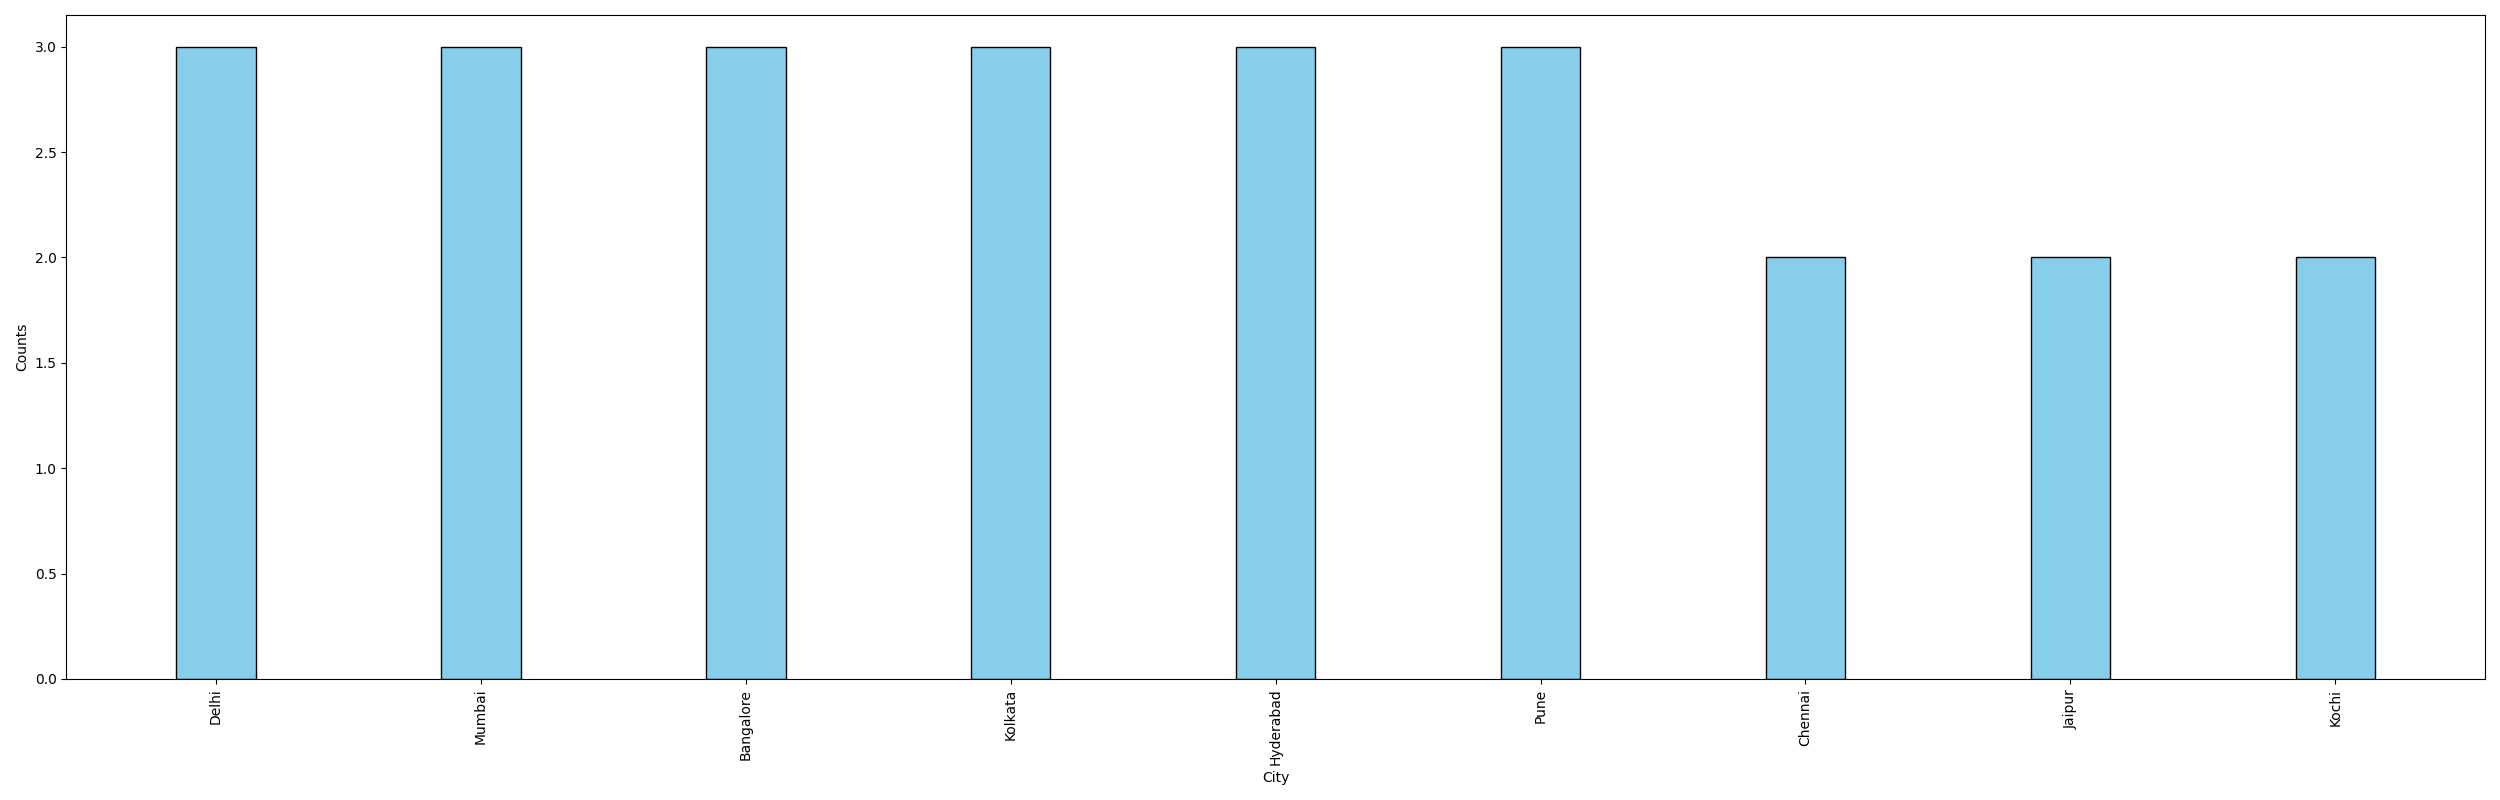
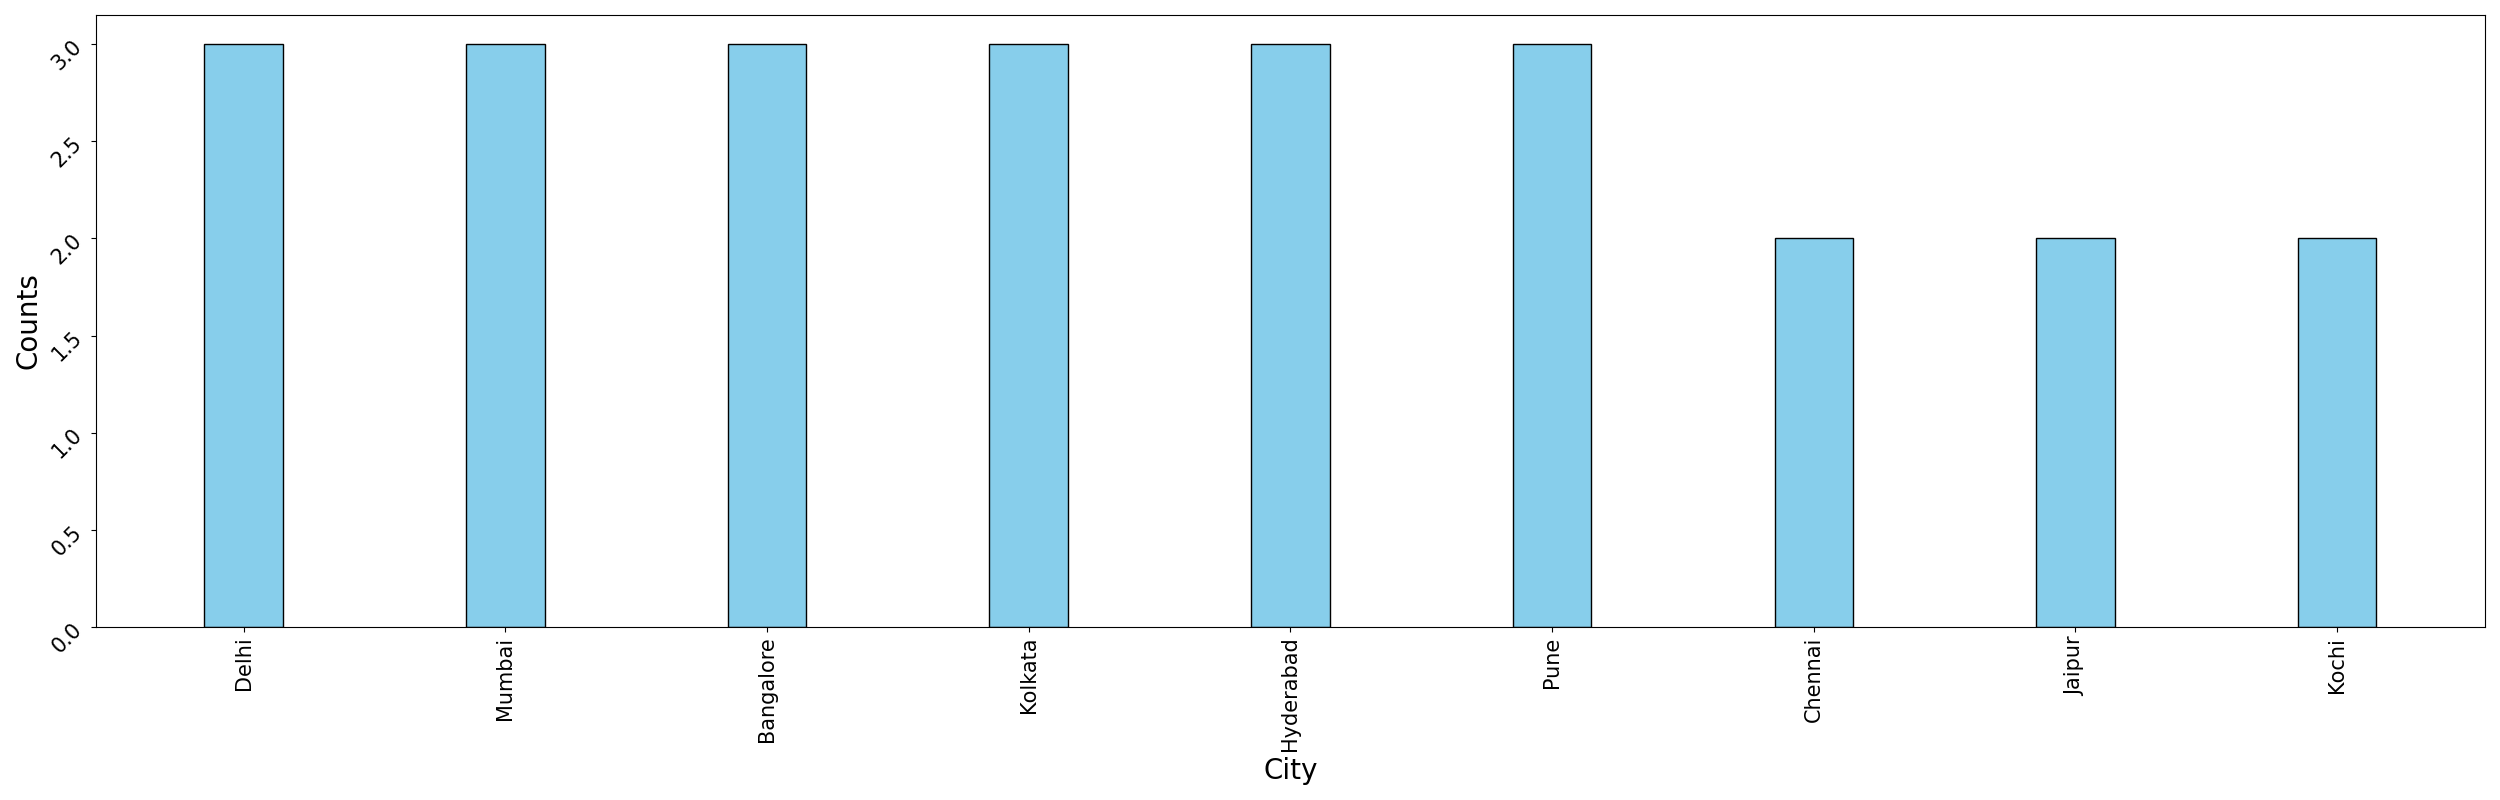
visual and bars using matplotlib and seaborn

diff --git a/visualization library/bar.py b/visualization library/bar.py
@@ -1,6 +1,6 @@
 import pandas as pd
 import matplotlib.pyplot as plt
-import numpy as np
+import seaborn as sb
 
 #load the source data
 source=pd.read_excel("/workspaces/Python-Course/numpy/project/indian_employee_data.xlsx")
@@ -24,15 +24,22 @@ print("'X' axis values ",x_value,"\n","'Y' axis values \n",y_value)
 #we will now 1st increase size of the figure
 plt.figure(figsize=(25,8))#giving height , width
 #rotate the label
-plt.xticks(rotation=90,fontsize=10)
+plt.xticks(rotation=90,fontsize=15)
+plt.yticks(rotation=45,ha="right",fontsize=15)
+
 plt.bar(x_value,y_value,width=0.3,color='skyblue', edgecolor='black')#by default width is 1 
 #but the ploting is not perfect the labels are overlapping so below things we can do
 # allign the labels vertically,decrease the size of font ,increase the size of visual
-plt.xlabel("City")
-plt.ylabel("Counts")
+plt.xlabel("City",fontsize=20)
+plt.ylabel("Counts",fontsize=20)
 plt.tight_layout()  # prevents label cutoff
 plt.savefig("bar.png")
 
 
+#by using the sb library we can draw the bar chart more easily then matplotlib
+sb.countplot(x='City',data=df,order=df["City"].value_counts().index,color="skyblue")
+plt.savefig("bar_using_seaborn.png")
+#but it will take all the properties of the plt which is defined above
 
-
+# so in simple word the seaborn library helps to reduce the line of code to draw any visual
+# as compared to the library matplotlib 
